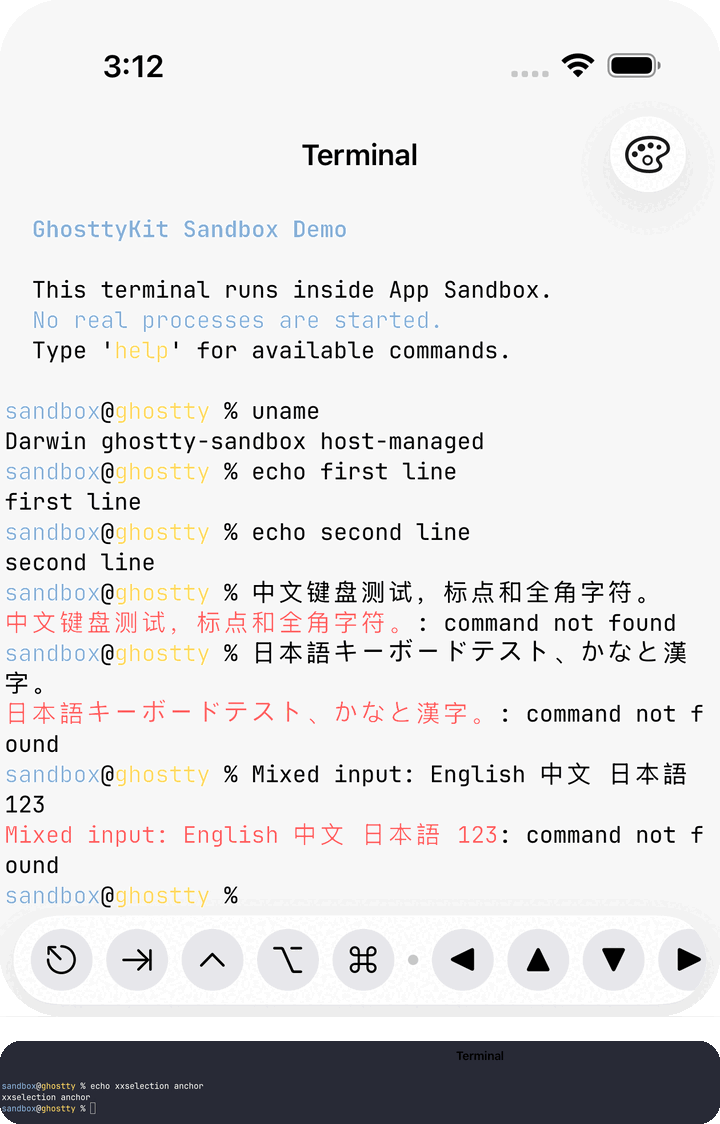
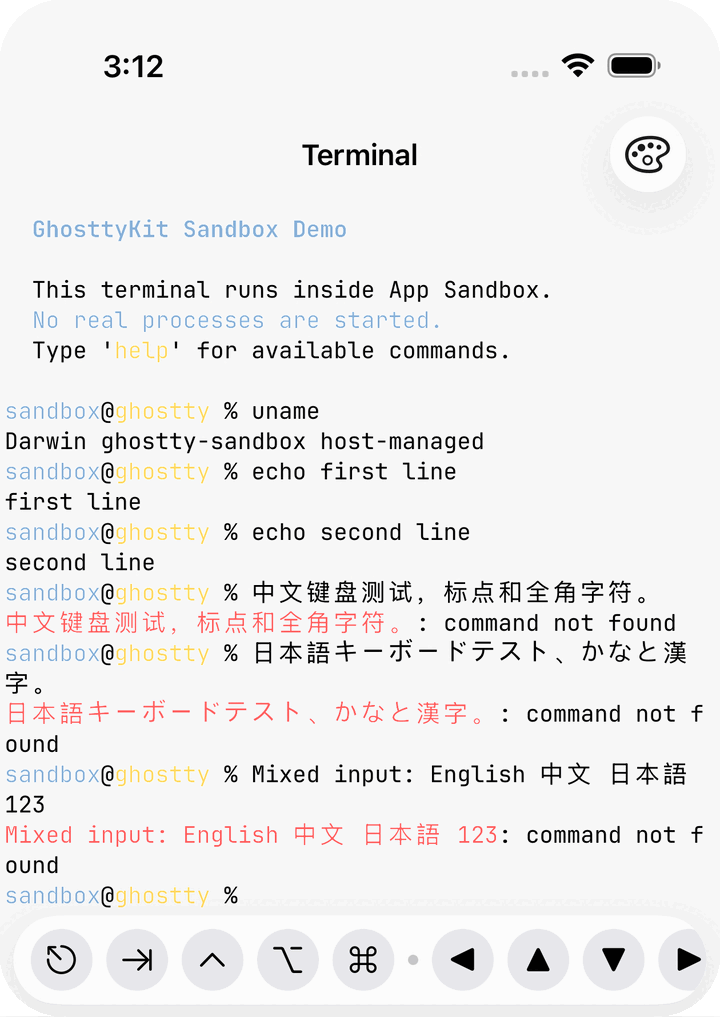
docs: hero is the day iPhone shot only, caption claims only that

diff --git a/README.md b/README.md
@@ -15,9 +15,9 @@
 </p>
 
 <p align="center">
-  <img src="docs/readme/hero.png" alt="The bundled sample app in day and night: a light terminal session on iPhone with Chinese, Japanese and English input, above a dark-theme session strip" width="480">
+  <img src="docs/readme/hero.png" alt="The bundled sample app on iPhone: a terminal session with Chinese, Japanese and English input" width="480">
 </p>
-<p align="center"><sub>The bundled sample app in day and night, captured by this repository's UI tests on iPhone and iPad.</sub></p>
+<p align="center"><sub>The bundled sample app on iPhone, captured by this repository's UI tests.</sub></p>
 
 ## Why
 
